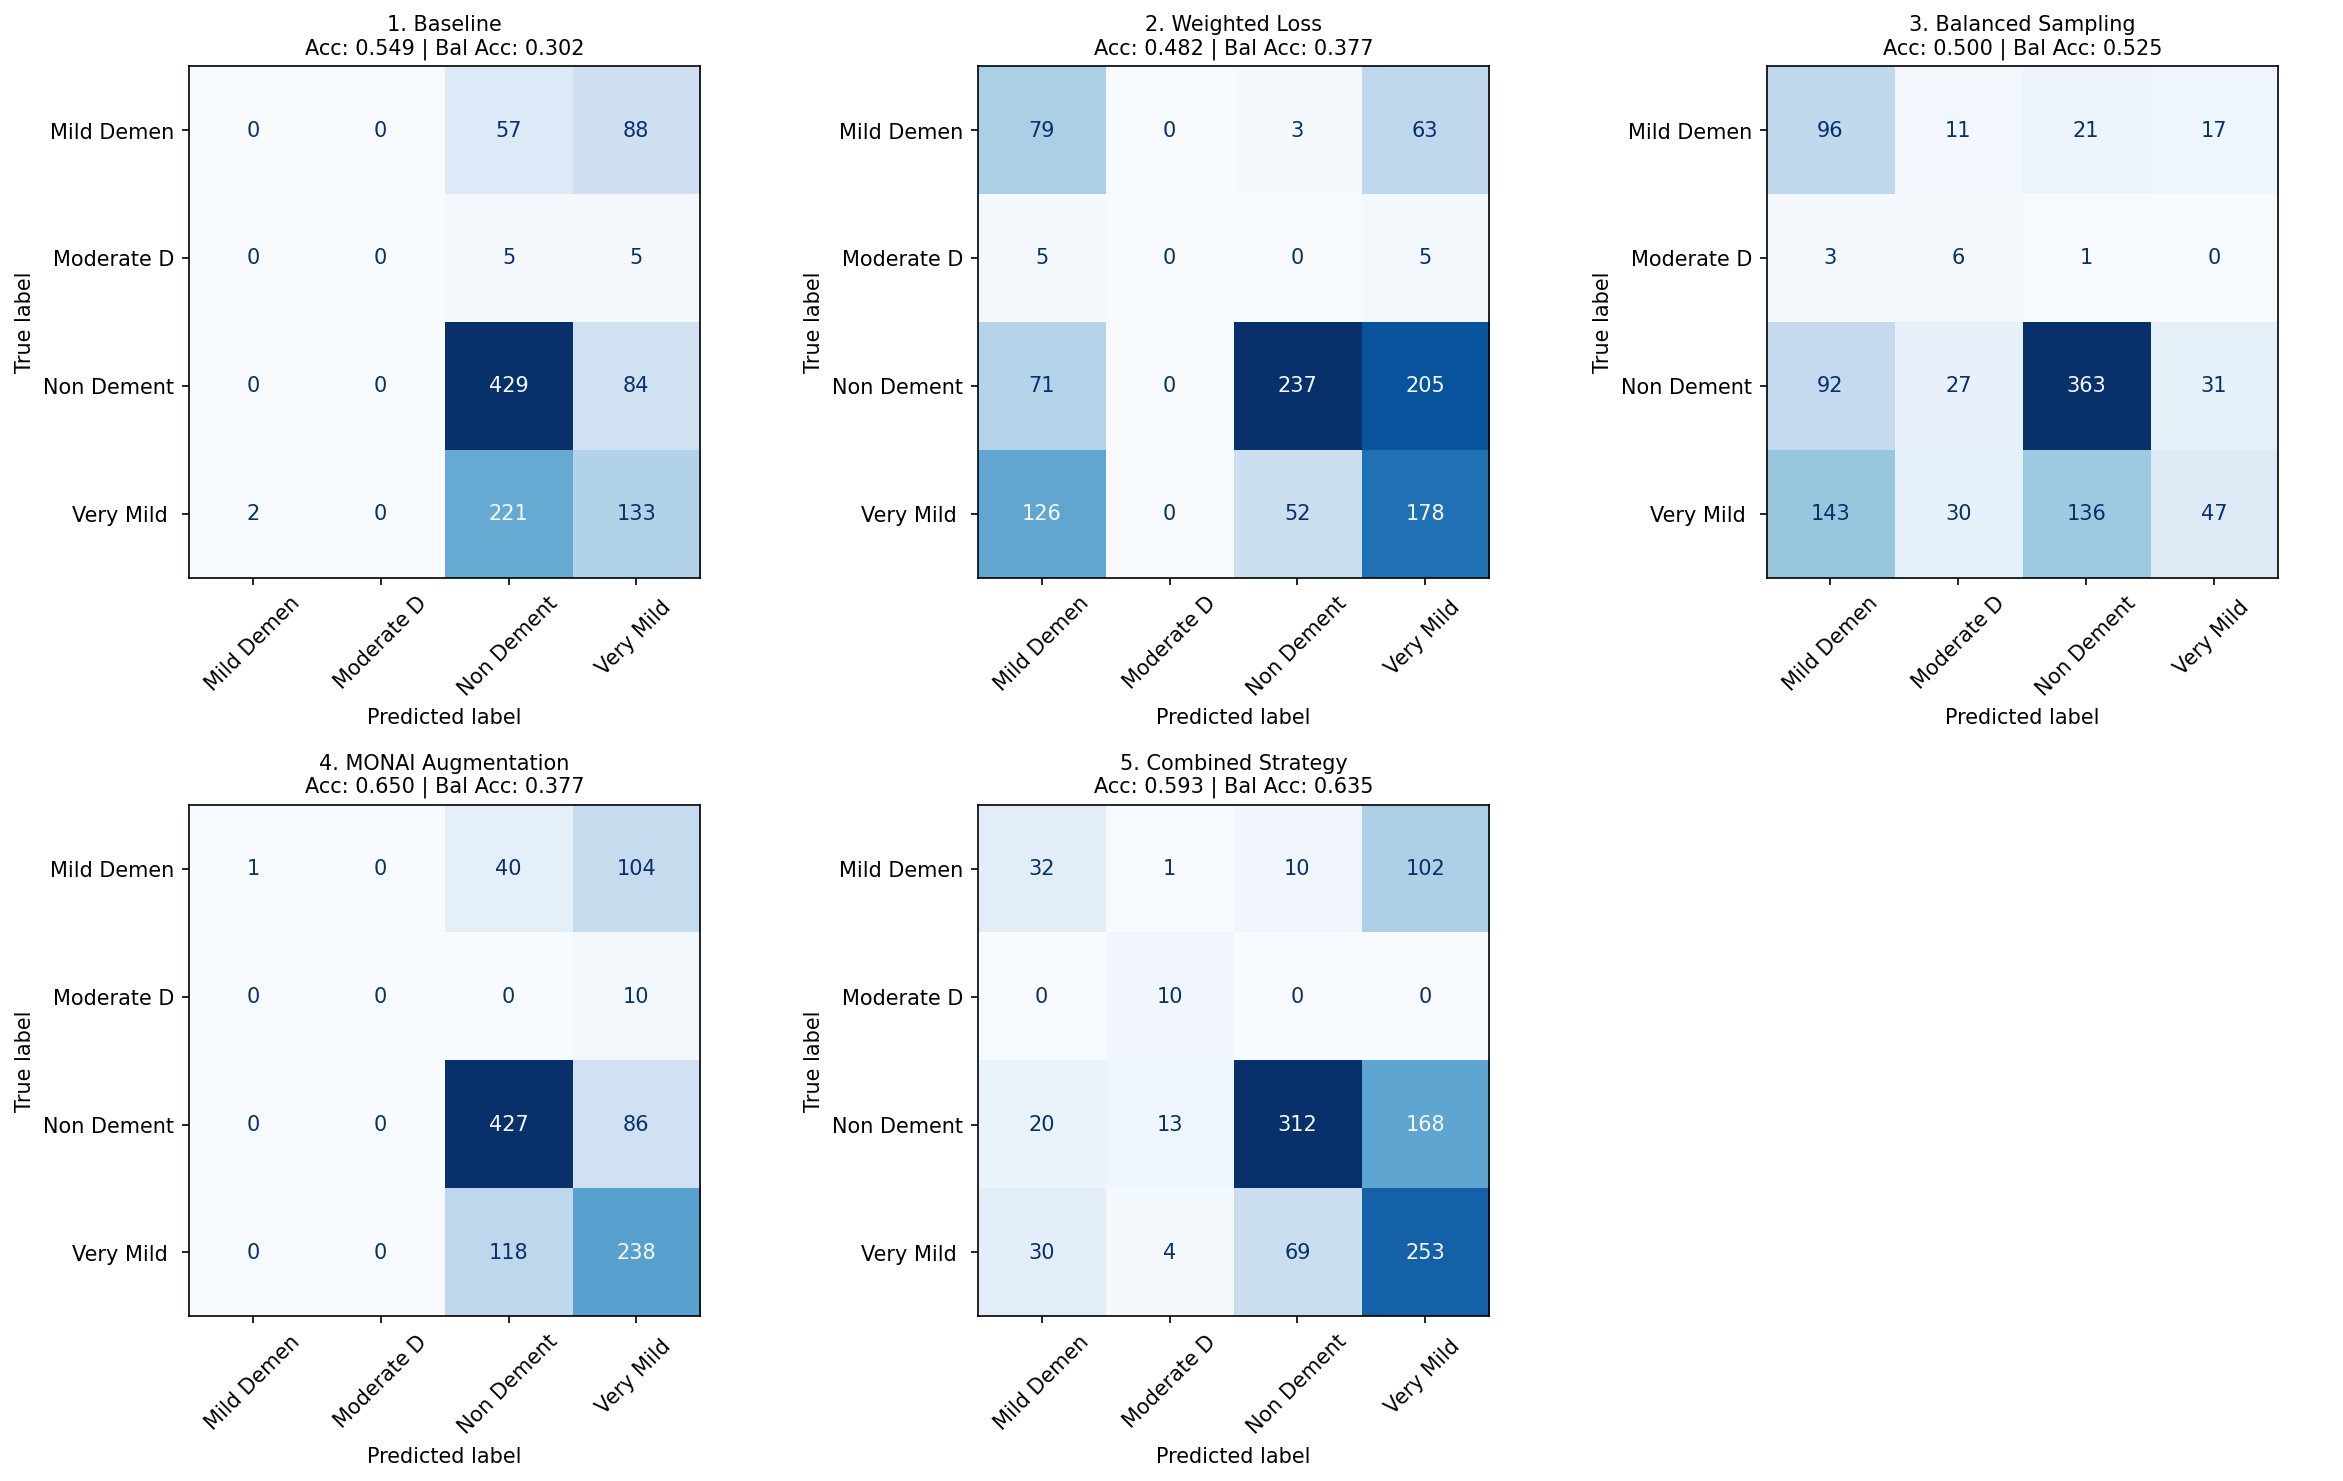
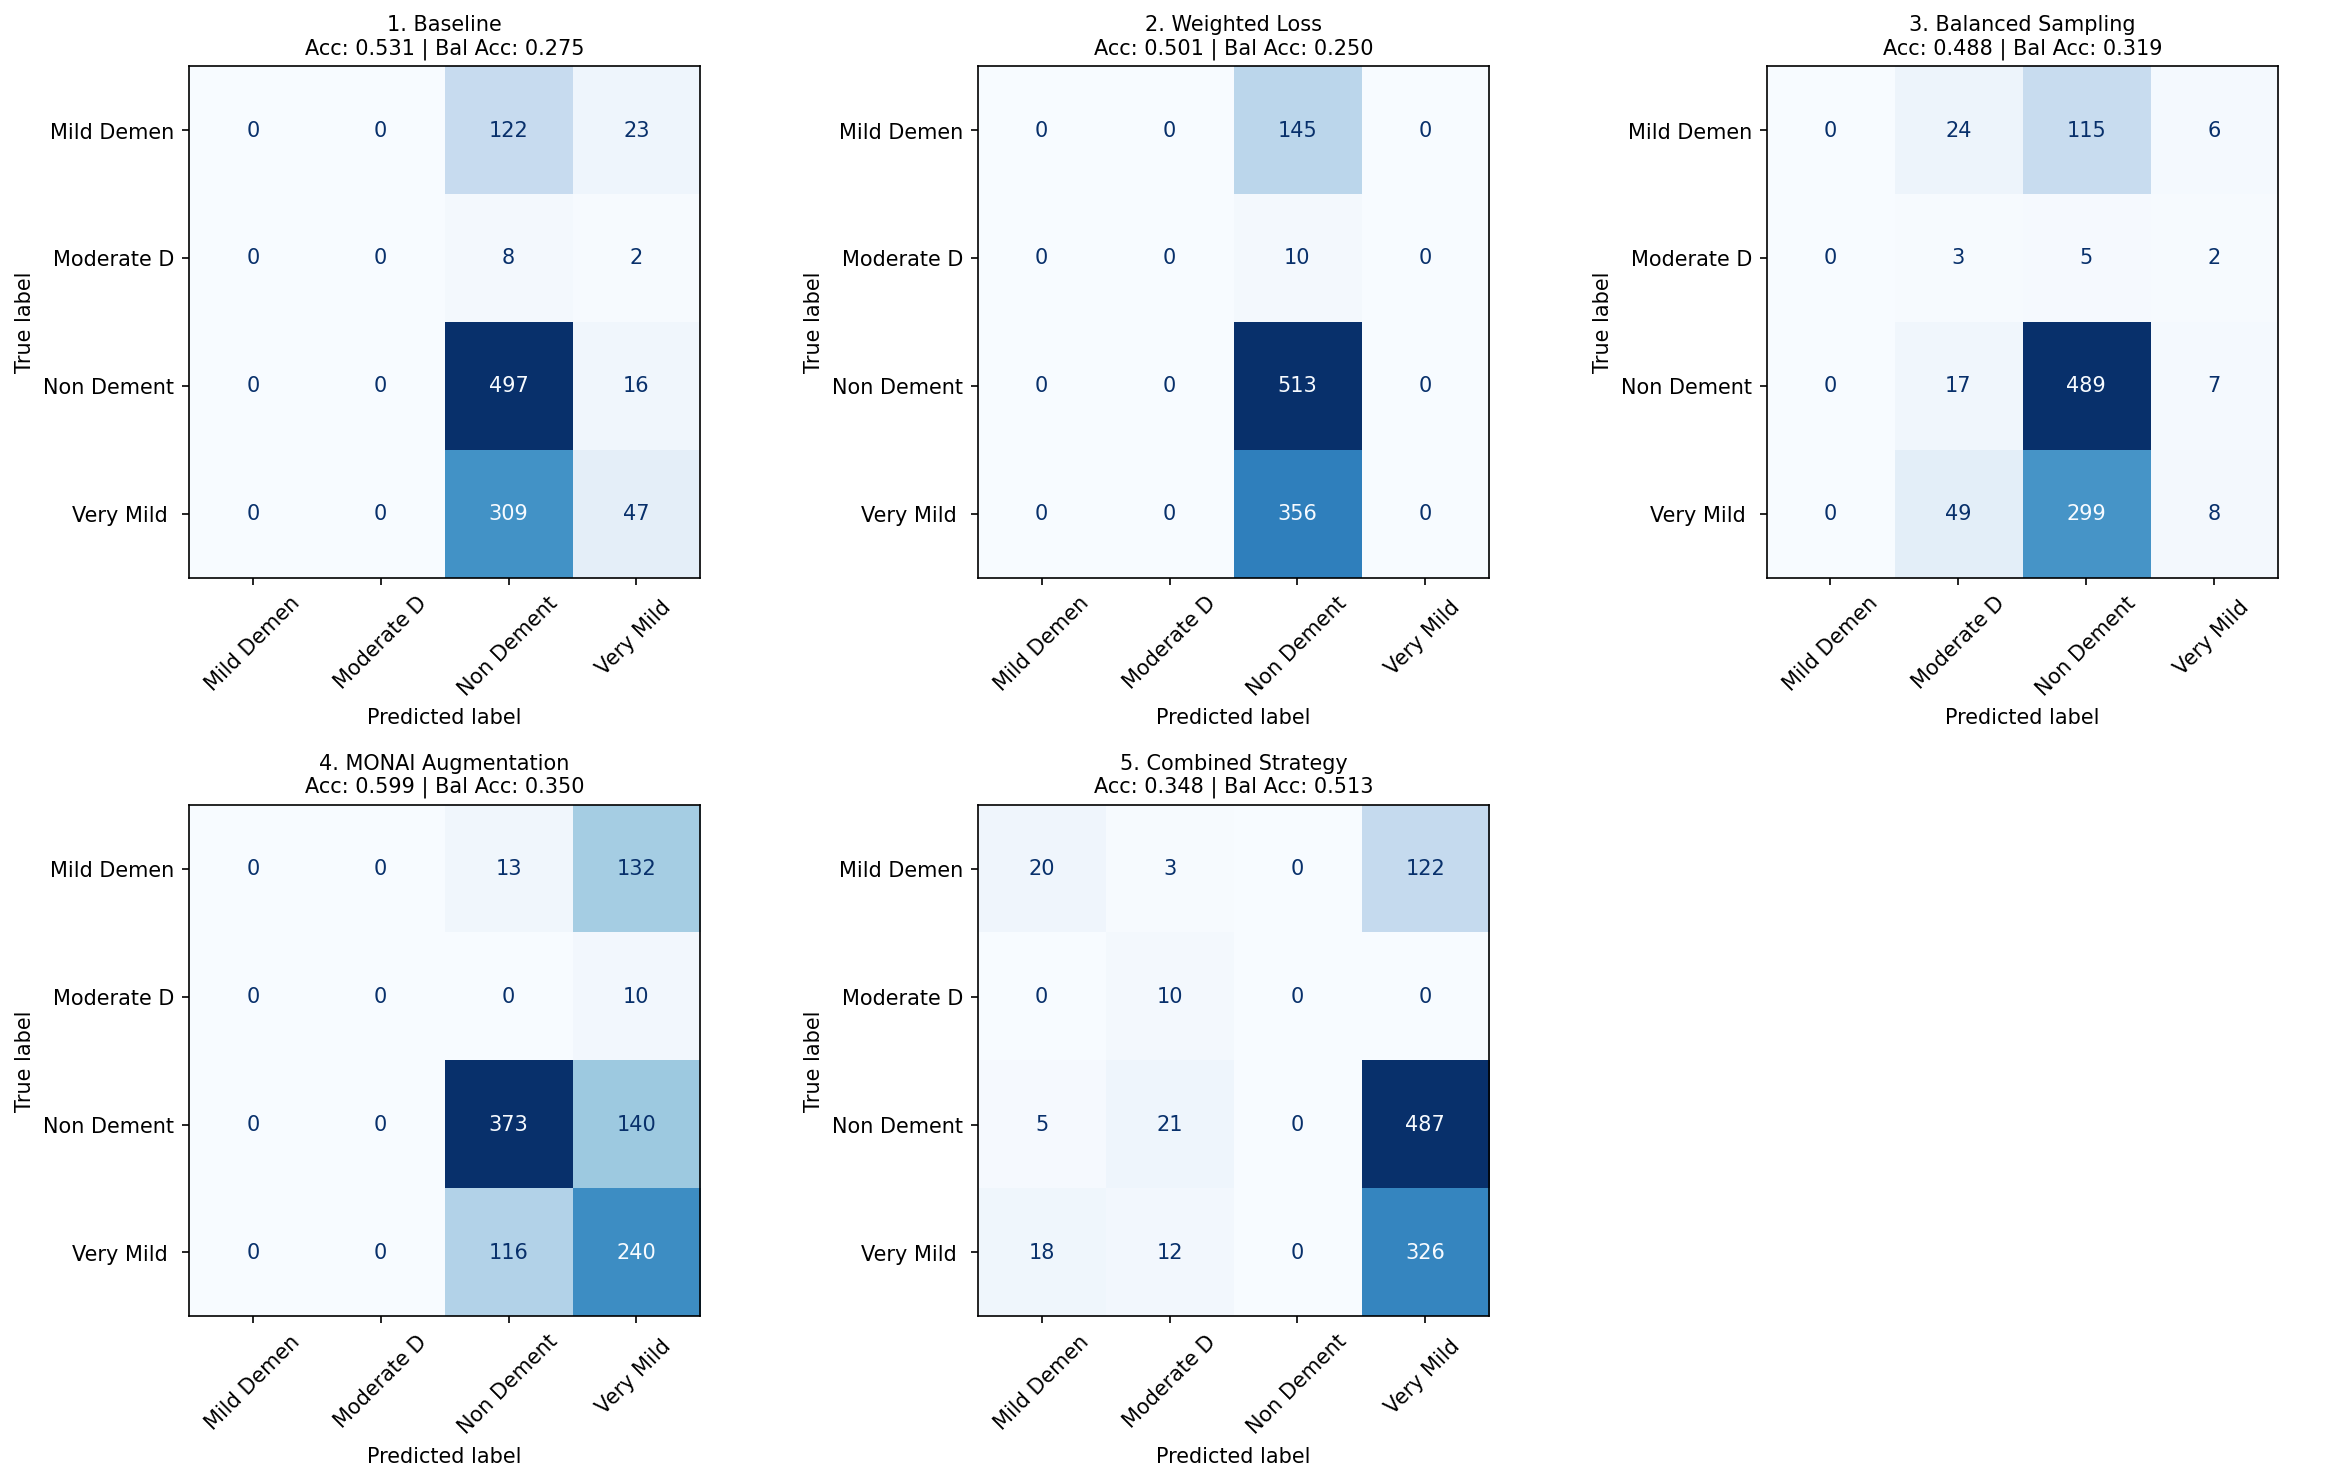
Refresh evaluation metrics and update docs

diff --git a/conclusions.md b/conclusions.md
@@ -12,18 +12,19 @@ This document summarizes what we learned from training a small CNN (with various
 
 ---
 
-## 2. Combining Techniques Helps the CNN
+## 2. CNN Imbalance Strategies Show Tradeoffs, Not a Clean Win
 
-| Strategy | Accuracy | Balanced Acc | F1 Macro |
-|----------|----------|--------------|----------|
-| Baseline | 0.55 | 0.30 | 0.27 |
-| Weighted Loss | 0.48 | 0.38 | 0.35 |
-| Balanced Sampling | 0.50 | 0.53 | 0.36 |
-| MONAI Augmentation | 0.65 | 0.38 | 0.35 |
-| **Combined Strategy** | 0.59 | **0.63** | **0.52** |
+| Strategy | Accuracy | Balanced Acc | Specificity Macro | F1 Macro | MCC | ROC-AUC |
+|----------|----------|--------------|-------------------|----------|-----|---------|
+| Baseline | 0.53 | 0.28 | 0.77 | 0.22 | 0.14 | 0.73 |
+| Weighted Loss | 0.50 | 0.25 | 0.75 | 0.17 | 0.00 | 0.50 |
+| Balanced Sampling | 0.49 | 0.32 | 0.77 | 0.20 | 0.10 | 0.60 |
+| **MONAI Augmentation** | **0.60** | 0.35 | **0.83** | **0.32** | **0.32** | **0.80** |
+| **Combined Strategy** | 0.35 | **0.51** | 0.76 | 0.27 | 0.08 | 0.65 |
 
-- The **Combined Strategy** (class weights + balanced sampling + MONAI augmentation) gave the best balanced accuracy and detected the rare "Moderate Demented" class with **100% recall**.
-- Pure augmentation boosted raw accuracy but still missed minority classes.
+- The **Combined Strategy** still achieved the best balanced accuracy and detected the rare "Moderate Demented" class with **100% recall**.
+- But that came with a severe tradeoff: in the refreshed run it collapsed to **0% recall for "Non Demented"**, so it is not a robust overall winner.
+- **MONAI Augmentation** gave the strongest overall CNN profile on raw accuracy, macro F1, MCC, specificity, and ROC-AUC, even though its balanced accuracy remained modest.
 
 ---
 
@@ -31,12 +32,13 @@ This document summarizes what we learned from training a small CNN (with various
 
 Switching from a small CNN to a pretrained **Swin Transformer** (`microsoft/swin-base-patch4-window7-224`) delivered a significant jump:
 
-| Model | Accuracy | Balanced Acc | F1 Macro | F1 Weighted | MCC | Kappa |
-|-------|----------|--------------|----------|-------------|-----|-------|
-| CNN (Combined) | 0.59 | 0.63 | 0.52 | 0.59 | 0.36 | 0.34 |
-| **Swin Transformer** | **0.88** | **0.90** | **0.89** | **0.88** | **0.80** | **0.80** |
+| Model | Accuracy | Balanced Acc | Specificity Macro | F1 Macro | MCC | Kappa | ROC-AUC |
+|-------|----------|--------------|-------------------|----------|-----|-------|---------|
+| CNN (Best balanced: Combined) | 0.35 | 0.51 | 0.76 | 0.27 | 0.08 | 0.04 | 0.65 |
+| CNN (Best overall: MONAI) | 0.60 | 0.35 | 0.83 | 0.32 | 0.32 | 0.30 | 0.80 |
+| **Swin Transformer** | **0.88** | **0.90** | **0.95** | **0.89** | **0.80** | **0.80** | **0.98** |
 
-The Swin Transformer improved accuracy by **29 percentage points** and balanced accuracy by **27 percentage points** compared to the best CNN variant. Per-class detection, especially for rare classes, also improved substantially.
+The Swin Transformer improved accuracy by roughly **28 percentage points** over the strongest CNN-by-accuracy and balanced accuracy by roughly **39 percentage points** over the strongest CNN-by-balanced-accuracy. Per-class detection, specificity, and probability ranking performance also improved substantially.
 
 - **Why does Swin win?**
   - Transfer learning from ImageNet provides strong visual features.
@@ -57,7 +59,7 @@ The Swin Transformer improved accuracy by **29 percentage points** and balanced 
 
 1. **Start with imbalance-aware training** (weighted loss, balanced sampling, augmentation) before scaling up model complexity.
 2. **Transfer learning** with modern vision transformers (Swin, ViT) can dramatically improve results on small medical datasets.
-3. **Evaluate with balanced metrics** (balanced accuracy, F1 macro, MCC) to ensure the model doesn't ignore rare but critical classes.
+3. **Evaluate with balanced metrics** (balanced accuracy, specificity, F1 macro, MCC, ROC-AUC) to ensure the model doesn't ignore rare but critical classes.
 4. **Visualize predictions**—confusion matrices and per-class metrics reveal where the model struggles.
 
 ---
@@ -65,7 +67,7 @@ The Swin Transformer improved accuracy by **29 percentage points** and balanced 
 ## 6. Recommended Workflow
 
 1. Explore data distribution and identify imbalance.
-2. Train a simple CNN with combined imbalance-handling techniques as a baseline.
+2. Train a simple CNN baseline and compare multiple imbalance-handling variants rather than assuming the combined recipe will dominate every metric.
 3. Fine-tune a pretrained transformer (e.g., Swin) for better performance.
-4. Evaluate on balanced metrics; inspect confusion matrix.
+4. Evaluate on balanced metrics; inspect confusion matrix and per-class specificity/recall.
 5. Save the best checkpoint for inference (`models/swin_alzheimer_classifier.pt`).

diff --git a/evaluation_metrics_notes.md b/evaluation_metrics_notes.md
@@ -1,0 +1,127 @@
+# Evaluation Metrics Notes
+
+This note summarizes which evaluation metrics are already available for the CNN and Swin models, what was added, what was confirmed by execution, and what is still missing.
+
+## Current Status
+
+The notebook source has now been updated to:
+
+- compute per-class specificity
+- compute macro specificity
+- export ROC-AUC more consistently in the CNN comparison pipeline
+- include specificity in the per-class metric tables
+
+The refresh was then executed in the active conda environment.
+
+- The CNN comparison section was run end to end and regenerated `comparison_results.csv`.
+- The saved Swin checkpoint was loaded successfully and its stored metrics were confirmed.
+
+This means the key additions are now confirmed rather than only proposed.
+
+## Execution Confirmation
+
+Confirmed from execution or checkpoint loading:
+
+- CNN `roc_auc_ovr_macro`: `0.6502`
+- CNN `specificity_macro`: `0.7567`
+- Swin `roc_auc_ovr_macro`: `0.9773`
+- Swin `specificity_macro`: `0.9503`
+
+The updated inventory CSV contains the per-class values as well.
+
+## Important Caveat
+
+The refreshed CNN results differ materially from the older checked-in CNN summary that had the combined strategy near `0.59` accuracy.
+
+That means the repo now has two different stories:
+
+- the older narrative in `README.md` and `conclusions.md`
+- the newly executed CNN comparison export in `comparison_results.csv`
+
+If you want the paper/report to be internally consistent, you should decide which result set is the authoritative one and then update the narrative text accordingly.
+
+## What Is Already Covered
+
+The current evaluation setup already reports a strong core set of metrics:
+
+- Accuracy
+- Balanced accuracy
+- F1 macro
+- F1 weighted
+- MCC
+- Cohen's kappa
+- Per-class precision
+- Per-class recall
+- Per-class F1
+- Confusion matrix
+- Classification report
+
+For this project, balanced accuracy, macro F1, MCC, and the per-class metrics are the most important ones because the dataset is imbalanced.
+
+## Important Clarification
+
+Sensitivity is already present.
+
+- In the current notebooks, sensitivity is the same thing as per-class recall.
+- So there is no need to add a separate "sensitivity" metric unless the goal is just to rename recall to a more clinical term.
+
+## What Was Added
+
+The main requested addition, specificity, is now implemented in the notebook code.
+
+- `specificity_per_class`
+- `specificity_macro`
+
+The inventory CSV now reflects executed CNN values and confirmed Swin checkpoint values.
+
+ROC-AUC export was also fixed in the CNN notebook code and is now confirmed in the regenerated comparison CSV.
+
+## What Is Still Missing
+
+Two additional optional metrics would also be useful:
+
+- `pr_auc_ovr_macro`, which is often more informative than ROC-AUC under class imbalance
+- calibration metrics if model confidence will be discussed, for example Brier score or expected calibration error, ECE
+
+## Can This Be Done From What We Already Collected?
+
+Partly.
+
+### No Code Change Needed
+
+No code change is needed to:
+
+- explain the current metric set
+- state that sensitivity is already covered by recall
+- identify PR-AUC and calibration as still missing from the current reports
+
+### Small Code Change Or Re-Export Needed
+
+The executed refresh resolved the main missing items, so this section now only applies to optional future metrics.
+
+#### Specificity
+
+Specificity is now implemented in the notebooks, and the CNN export now includes it directly.
+
+For Swin, the inventory uses specificity derived from the exact checkpoint precision, recall, and support values.
+
+In general, specificity requires one of the following to be exported cleanly:
+
+- the confusion matrix values
+- per-sample predictions and labels
+- explicit TP/FP/TN/FN counts in a one-vs-rest format
+
+#### PR-AUC And Calibration
+
+These are still not implemented. They need predicted probabilities to be saved and exported consistently.
+
+## Recommendation
+
+Keep the current metrics as the main comparison set, and add these next:
+
+1. Per-class specificity
+2. Macro specificity
+3. Macro OvR ROC-AUC exported consistently
+4. Macro OvR PR-AUC if you want one more imbalance-aware probability metric
+
+That is enough to make the evaluation more complete without turning it into metric overload.

diff --git a/README.md b/README.md
@@ -14,8 +14,11 @@ Educational walkthrough for classifying brain MRI scans into four cognitive-impa
 - Swin Transformer: `microsoft/swin-base-patch4-window7-224` via Hugging Face; transfer learning; stronger augmentation (MONAI) tailored to minority classes; differential learning rates.
 
 ## Results (validation)
-- Best CNN variant (Combined Strategy): Accuracy ≈ 0.59, Balanced Accuracy ≈ 0.63 (see `comparison_results.csv`).
-- Swin Transformer: higher accuracy/balanced accuracy and per-class F1 than the CNN runs (see `VIT-Swin.ipynb` evaluation section for metrics and plots).
+- CNN results are mixed and depend strongly on the imbalance-handling strategy:
+  - Best CNN raw accuracy: MONAI Augmentation, Accuracy ≈ 0.60, Balanced Accuracy ≈ 0.35, ROC-AUC ≈ 0.80
+  - Best CNN balanced accuracy: Combined Strategy, Accuracy ≈ 0.35, Balanced Accuracy ≈ 0.51, ROC-AUC ≈ 0.65
+- Swin Transformer is clearly stronger overall: Accuracy ≈ 0.88, Balanced Accuracy ≈ 0.90, Specificity Macro ≈ 0.95, ROC-AUC ≈ 0.98.
+- See `comparison_results.csv` and the evaluation sections in the notebooks for the full metric breakdown.
 
 ## How to Run
 1) Install dependencies (Python 3.10+ recommended):
@@ -31,7 +34,7 @@ Educational walkthrough for classifying brain MRI scans into four cognitive-impa
 - Optimization: AdamW; differential LRs for backbone vs classifier head (Swin); ReduceLROnPlateau scheduler; gradient clipping; early stopping.
 
 ## Evaluation and Visuals
-- Metrics: Accuracy, Balanced Accuracy, F1 (macro/weighted), MCC, Cohen's Kappa, per-class precision/recall/F1.
+- Metrics: Accuracy, Balanced Accuracy, Specificity (macro and per class), F1 (macro/weighted), MCC, Cohen's Kappa, ROC-AUC OvR macro, per-class precision/recall/F1/support.
 - Plots (in notebooks): training curves, confusion matrix, sample predictions with confidences.
 
 ## Saved Models
